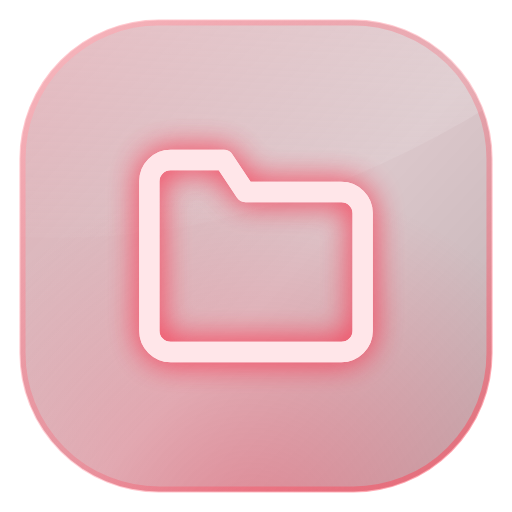
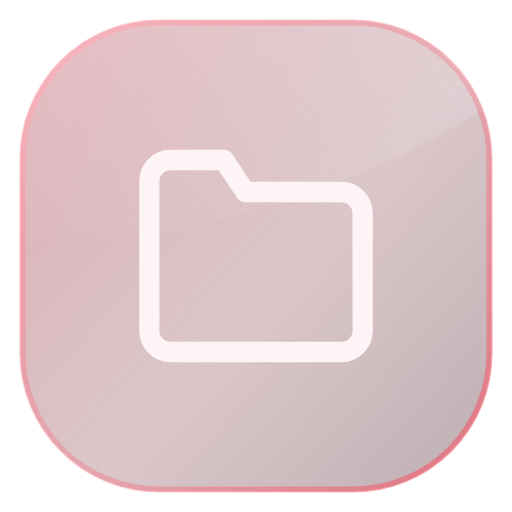
Fundo vermelho-sangue liso com a cruz templária e ícones sem brilho vermelho
Claude-Session: https://claude.ai/code/session_01AJHqqZWjGBdvtX4KwX1TrX

Changed region(s): [[0.1562, 0.25, 0.8438, 0.9688]]

diff --git a/tema-celular/index.html b/tema-celular/index.html
@@ -86,13 +86,8 @@ code { font-size: 13px; color: var(--accent-hi) }
 
     <section class="card">
       <h2>Papel de parede</h2>
-      <div class="row" id="variants" role="group" aria-label="Estilo do papel de parede">
-        <button type="button" data-v="vidro" aria-pressed="true">Vidro estilhaçado</button>
-        <button type="button" data-v="gotas" aria-pressed="false">Gotas de sangue</button>
-      </div>
-      <div class="row" style="margin-top:14px">
+      <div class="row">
         <button type="button" id="dlWp">Baixar papel de parede (PNG)</button>
-        <button type="button" id="reroll">Gerar outro</button>
       </div>
     </section>
 
@@ -157,10 +152,6 @@ function drawIcon(path, size = 512) {
   g.addColorStop(0, "rgba(170, 10, 32, 0.34)"); g.addColorStop(0.55, "rgba(90, 0, 16, 0.22)"); g.addColorStop(1, "rgba(40, 0, 8, 0.32)");
   ctx.fillStyle = g; ctx.fill();
   ctx.save(); ctx.clip();
-  // brilho interno vermelho embaixo
-  g = ctx.createRadialGradient(s * 0.5, s * 1.05, 0, s * 0.5, s * 1.05, s * 0.7);
-  g.addColorStop(0, "rgba(255, 40, 70, 0.35)"); g.addColorStop(1, "rgba(255, 40, 70, 0)");
-  ctx.fillStyle = g; ctx.fillRect(0, 0, s, s);
   // reflexo diagonal do vidro
   ctx.beginPath(); ctx.moveTo(0, 0); ctx.lineTo(s, 0); ctx.lineTo(s, s * 0.18); ctx.quadraticCurveTo(s * 0.5, s * 0.5, 0, s * 0.46); ctx.closePath();
   g = ctx.createLinearGradient(0, 0, 0, s * 0.5);
@@ -176,9 +167,7 @@ function drawIcon(path, size = 512) {
   ctx.save();
   const k = s * 0.5 / 24; ctx.translate(s * 0.25, s * 0.25); ctx.scale(k, k);
   ctx.lineCap = ctx.lineJoin = "round"; ctx.lineWidth = 1.9;
-  ctx.shadowColor = "rgba(255, 30, 60, 0.95)"; ctx.shadowBlur = s * 0.06;
-  ctx.strokeStyle = "#ffe6e9"; ctx.stroke(new Path2D(path));
-  ctx.shadowBlur = 0; ctx.stroke(new Path2D(path));
+  ctx.strokeStyle = "#fff4f5"; ctx.stroke(new Path2D(path));
   ctx.restore();
   return c;
 }
@@ -189,87 +178,14 @@ function grain(ctx, rand, amount) {
   ctx.putImageData(img, 0, 0);
 }
 
-function baseGlow(ctx, rand) {
-  ctx.fillStyle = "#060103"; ctx.fillRect(0, 0, W, H);
-  const blobs = [[0.15, 0.85, 900, "rgba(190,10,35,0.75)"], [0.9, 0.2, 700, "rgba(120,0,22,0.7)"], [0.6, 0.55, 500, "rgba(255,30,60,0.25)"]];
-  for (const [x, y, rad, col] of blobs) {
-    const cx = W * (x + (rand() - 0.5) * 0.15), cy = H * (y + (rand() - 0.5) * 0.08);
-    const g = ctx.createRadialGradient(cx, cy, 0, cx, cy, rad);
-    g.addColorStop(0, col); g.addColorStop(1, "rgba(0,0,0,0)");
-    ctx.fillStyle = g; ctx.fillRect(0, 0, W, H);
-  }
-}
-
-function wallpaperVidro(ctx, rand) {
-  baseGlow(ctx, rand);
-  // estilhaços de vidro a partir de um ponto de impacto
-  const ix = W * 0.5, iy = H * 0.45;
-  const n = 26, angles = Array.from({ length: n }, (_, i) => (i / n) * Math.PI * 2 + rand() * 0.18);
-  for (let i = 0; i < n; i++) {
-    const a1 = angles[i], a2 = angles[(i + 1) % n] + (i === n - 1 ? Math.PI * 2 : 0);
-    const r1 = 120 + rand() * 260, r2 = 1500 + rand() * 900;
-    ctx.beginPath();
-    ctx.moveTo(ix + Math.cos(a1) * r1, iy + Math.sin(a1) * r1);
-    ctx.lineTo(ix + Math.cos(a1) * r2, iy + Math.sin(a1) * r2);
-    ctx.lineTo(ix + Math.cos(a2) * r2, iy + Math.sin(a2) * r2);
-    ctx.lineTo(ix + Math.cos(a2) * r1, iy + Math.sin(a2) * r1);
-    ctx.closePath();
-    const g = ctx.createLinearGradient(ix, iy, ix + Math.cos(a1) * 1400, iy + Math.sin(a1) * 1400);
-    const a = 0.02 + rand() * 0.07;
-    g.addColorStop(0, `rgba(255,190,200,${a * 1.6})`); g.addColorStop(1, `rgba(255,60,80,${a * 0.2})`);
-    ctx.fillStyle = g; ctx.fill();
-    ctx.strokeStyle = `rgba(255,170,180,${0.10 + rand() * 0.25})`; ctx.lineWidth = 1 + rand() * 2; ctx.stroke();
-  }
-  // anéis concêntricos de rachadura
-  for (let ring = 0; ring < 3; ring++) {
-    const rr = 200 + ring * (180 + rand() * 120);
-    ctx.beginPath();
-    for (let i = 0; i <= n; i++) {
-      const a = angles[i % n] + (i === n ? Math.PI * 2 : 0), j = rr * (0.85 + rand() * 0.3);
-      const x = ix + Math.cos(a) * j, y = iy + Math.sin(a) * j;
-      i ? ctx.lineTo(x, y) : ctx.moveTo(x, y);
-    }
-    ctx.strokeStyle = `rgba(255,150,165,${0.25 - ring * 0.06})`; ctx.lineWidth = 1.5; ctx.stroke();
-  }
-  // núcleo do impacto
-  const g = ctx.createRadialGradient(ix, iy, 0, ix, iy, 260);
-  g.addColorStop(0, "rgba(255,120,140,0.55)"); g.addColorStop(0.3, "rgba(220,20,50,0.25)"); g.addColorStop(1, "rgba(0,0,0,0)");
+function wallpaperSangue(ctx, rand) {
+  // fundo vermelho-sangue liso, um pouco mais claro atrás da cruz
+  ctx.fillStyle = "#5e0008"; ctx.fillRect(0, 0, W, H);
+  const g = ctx.createRadialGradient(W * 0.5, H * 0.45, 0, W * 0.5, H * 0.45, H * 0.6);
+  g.addColorStop(0, "#8a0010"); g.addColorStop(1, "rgba(94,0,8,0)");
   ctx.fillStyle = g; ctx.fillRect(0, 0, W, H);
-  templarCross(ctx, ix, iy, 300);
-  vignette(ctx); grain(ctx, rand, 14);
-}
-
-function wallpaperGotas(ctx, rand) {
-  baseGlow(ctx, rand);
-  // escorridos do topo
-  const drips = 9;
-  for (let i = 0; i < drips; i++) {
-    const x = (i + 0.2 + rand() * 0.6) * (W / drips), w = 26 + rand() * 50, len = 260 + rand() * 900;
-    const g = ctx.createLinearGradient(0, 0, 0, len);
-    g.addColorStop(0, "#5a0010"); g.addColorStop(0.7, "#a3001c"); g.addColorStop(1, "#d1102e");
-    ctx.fillStyle = g;
-    ctx.beginPath(); ctx.moveTo(x - w, 0);
-    ctx.bezierCurveTo(x - w * 0.6, len * 0.3, x - w * 0.45, len * 0.7, x - w * 0.55, len);
-    ctx.arc(x, len, w * 0.55, Math.PI, 0, true);
-    ctx.bezierCurveTo(x + w * 0.45, len * 0.7, x + w * 0.6, len * 0.3, x + w, 0);
-    ctx.closePath(); ctx.fill();
-    // reflexo
-    ctx.fillStyle = "rgba(255,200,210,0.35)";
-    ctx.beginPath(); ctx.ellipse(x - w * 0.2, len - w * 0.05, w * 0.1, w * 0.22, -0.3, 0, Math.PI * 2); ctx.fill();
-    ctx.fillRect(x - w * 0.35, 0, w * 0.08, len * 0.85);
-  }
-  // faixa superior contínua
-  ctx.fillStyle = "#4a000d"; ctx.fillRect(0, 0, W, 40);
-  // gotas espalhadas sobre "vidro"
-  for (let i = 0; i < 70; i++) {
-    const x = rand() * W, y = H * (0.45 + rand() * 0.55), r = 6 + rand() * rand() * 38;
-    const g = ctx.createRadialGradient(x - r * 0.3, y - r * 0.3, r * 0.1, x, y, r);
-    g.addColorStop(0, "rgba(255,140,155,0.9)"); g.addColorStop(0.35, "rgba(200,10,40,0.85)"); g.addColorStop(1, "rgba(60,0,10,0.9)");
-    ctx.fillStyle = g; ctx.beginPath(); ctx.ellipse(x, y, r, r * (0.9 + rand() * 0.25), 0, 0, Math.PI * 2); ctx.fill();
-    ctx.fillStyle = "rgba(255,255,255,0.55)"; ctx.beginPath(); ctx.arc(x - r * 0.35, y - r * 0.35, r * 0.18, 0, Math.PI * 2); ctx.fill();
-  }
   templarCross(ctx, W * 0.5, H * 0.45, 300);
-  vignette(ctx); grain(ctx, rand, 14);
+  vignette(ctx); grain(ctx, rand, 8);
 }
 
 // Cruz pátea da Ordem dos Templários, em vidro vermelho.
@@ -286,12 +202,10 @@ function crossPath(cx, cy, L) {
 
 function templarCross(ctx, cx, cy, L) {
   // halo atrás da cruz
-  let g = ctx.createRadialGradient(cx, cy, 0, cx, cy, L * 1.6);
-  g.addColorStop(0, "rgba(255,40,70,0.35)"); g.addColorStop(1, "rgba(0,0,0,0)");
-  ctx.fillStyle = g; ctx.fillRect(0, 0, W, H);
+  let g;
   const outer = crossPath(cx, cy, L), inner = crossPath(cx, cy, L * 0.86);
   ctx.save();
-  ctx.shadowColor = "rgba(255,20,50,0.9)"; ctx.shadowBlur = 70;
+  ctx.shadowColor = "rgba(20,0,2,0.75)"; ctx.shadowBlur = 60; ctx.shadowOffsetY = 18;
   g = ctx.createLinearGradient(cx - L, cy - L, cx + L, cy + L);
   g.addColorStop(0, "rgba(230,20,50,0.85)"); g.addColorStop(0.5, "rgba(140,0,22,0.75)"); g.addColorStop(1, "rgba(200,10,40,0.85)");
   ctx.fillStyle = g; ctx.fill(outer);
@@ -310,14 +224,14 @@ function templarCross(ctx, cx, cy, L) {
 
 function vignette(ctx) {
   const g = ctx.createRadialGradient(W / 2, H / 2, H * 0.3, W / 2, H / 2, H * 0.75);
-  g.addColorStop(0, "rgba(0,0,0,0)"); g.addColorStop(1, "rgba(0,0,0,0.6)");
+  g.addColorStop(0, "rgba(0,0,0,0)"); g.addColorStop(1, "rgba(0,0,0,0.45)");
   ctx.fillStyle = g; ctx.fillRect(0, 0, W, H);
 }
 
-function renderWallpaper(variant, seed) {
+function renderWallpaper(seed) {
   const c = document.createElement("canvas"); c.width = W; c.height = H;
   const ctx = c.getContext("2d"), rand = rng(seed);
-  (variant === "gotas" ? wallpaperGotas : wallpaperVidro)(ctx, rand);
+  wallpaperSangue(ctx, rand);
   return c;
 }
 
@@ -328,9 +242,9 @@ function save(canvas, name) {
   }, "image/png");
 }
 
-let variant = "vidro", seed = 7, current;
+let current;
 function refresh() {
-  current = renderWallpaper(variant, seed);
+  current = renderWallpaper(7);
   const p = document.getElementById("wpPreview");
   p.getContext("2d").drawImage(current, 0, 0, p.width, p.height);
 }
@@ -351,18 +265,11 @@ const now = new Date();
 document.getElementById("pClock").textContent = now.toLocaleTimeString("pt-BR", { hour: "2-digit", minute: "2-digit" });
 document.getElementById("pDate").textContent = now.toLocaleDateString("pt-BR", { weekday: "long", day: "numeric", month: "long" });
 
-document.getElementById("variants").addEventListener("click", e => {
-  const b = e.target.closest("button"); if (!b) return;
-  variant = b.dataset.v;
-  document.querySelectorAll("#variants button").forEach(x => x.setAttribute("aria-pressed", x === b));
-  refresh();
-});
-document.getElementById("reroll").addEventListener("click", () => { seed = Math.floor(Math.random() * 1e6) + 1; refresh(); });
-document.getElementById("dlWp").addEventListener("click", () => save(current, `papel-de-parede-${variant}.png`));
+document.getElementById("dlWp").addEventListener("click", () => save(current, "papel-de-parede-templario.png"));
 
 // usado pelo script de exportação
 window.exportAll = () => ({
-  wallpapers: { vidro: renderWallpaper("vidro", 7).toDataURL(), gotas: renderWallpaper("gotas", 11).toDataURL() },
+  wallpapers: { templario: renderWallpaper(7).toDataURL() },
   icons: Object.fromEntries(Object.entries(iconCanvases).map(([k, c]) => [k, c.toDataURL()])),
 });
 refresh();
